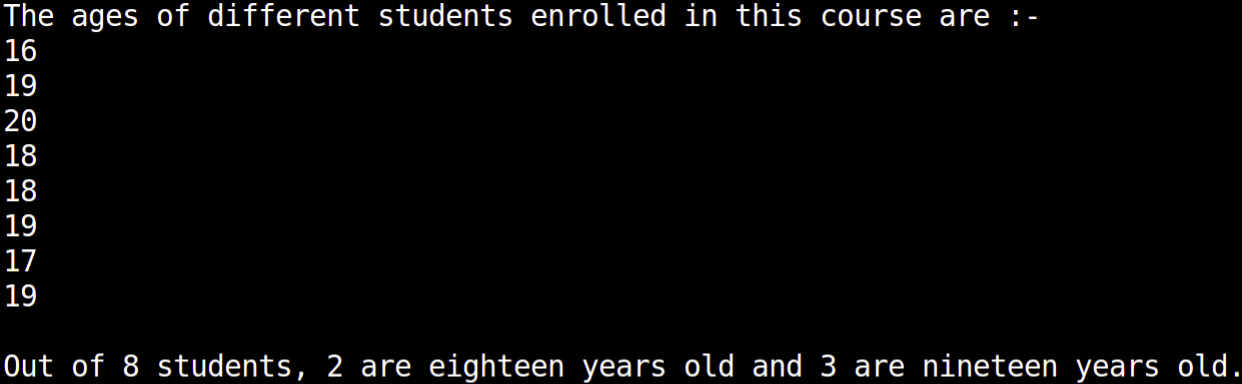
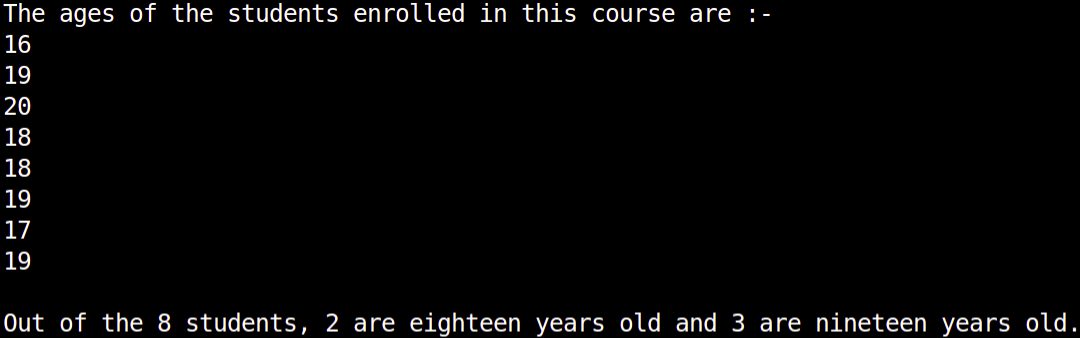
Update PY-00

diff --git a/15/15.py b/15/15.py
@@ -1,0 +1,106 @@
+# -*- coding: utf-8 -*-
+# Python 3.8.6
+
+numberOfStudents = int(input("Enter the number of students enrolled in "
+                                  "this course: "))
+print("\n", sep = "", end = "")
+
+
+
+if (numberOfStudents > 0):
+
+
+
+    listOfNames = []
+    marksObtained = []
+
+    for x in range(1, numberOfStudents+1):
+        print("Enter the name of student no. ", x, ": ", sep = "", end = "")
+        dummyVariable1 = input()
+        listOfNames.append(dummyVariable1)
+
+    print("\n", sep = "", end = "")
+
+    for y in range(numberOfStudents):
+        print("Enter the marks of ", listOfNames[y], ": ", sep = "", end = "")
+        dummyVariable2 = int(input())
+        marksObtained.append(dummyVariable2)
+
+    print("\n", sep = "", end = "")
+
+
+
+    print("The name(s) of the student(s) enrolled in this course is(are) :-\n",
+          sep = "", end = "")
+
+
+    listOfNames.sort()
+
+    for z in range(numberOfStudents):
+        if (z+2 != numberOfStudents and z+1 != numberOfStudents):
+            print(listOfNames[z], sep = "", end = ", ")
+        elif (z+2 == numberOfStudents):
+            print(listOfNames[z], sep = "", end = " & ")
+        else:
+            print(listOfNames[z], sep = "", end = " ")
+
+    print("(in ascending alphabetical order).\n", sep = "", end = "")
+
+
+    listOfNames.reverse()
+
+    for w in range(numberOfStudents):
+        if (w+2 != numberOfStudents and w+1 != numberOfStudents):
+            print(listOfNames[w], sep = "", end = ", ")
+        elif (w+2 == numberOfStudents):
+            print(listOfNames[w], sep = "", end = " & ")
+        else:
+            print(listOfNames[w], sep = "", end = " ")
+
+    print("(in descending alphabetical order).\n\n", sep = "", end = "")
+
+
+
+    print("The marks obtained by the student(s) enrolled in this course ",
+          "is(are) :-\n", sep = "", end = "")
+
+
+    marksObtained.sort()
+
+    for u in range(numberOfStudents):
+        if (u+2 != numberOfStudents and u+1 != numberOfStudents):
+            print(marksObtained[u], sep = "", end = ", ")
+        elif (u+2 == numberOfStudents):
+            print(marksObtained[u], sep = "", end = " & ")
+        else:
+            print(marksObtained[u], sep = "", end = " ")
+
+    print("(in ascending order).\n", sep = "", end = "")
+
+
+    marksObtained.reverse()
+
+    for v in range(numberOfStudents):
+        if (v+2 != numberOfStudents and v+1 != numberOfStudents):
+            print(marksObtained[v], sep = "", end = ", ")
+        elif (v+2 == numberOfStudents):
+            print(marksObtained[v], sep = "", end = " & ")
+        else:
+            print(marksObtained[v], sep = "", end = " ")
+
+    print("(in descending order).\n", sep = "", end = "")
+
+
+
+else:
+    print("The number of students should be greater than 0!\n",
+          sep = "", end = "")
+
+
+
+# /* Trivia
+#
+#  * listName.sort() sorts a list in ascending order.
+#  * listName.reverse() reverses the order of a list.
+#
+#  */

diff --git a/14/14.py b/14/14.py
@@ -3,18 +3,21 @@
 
 agesOfStudents = [16, 19, 20, 18, 18, 19, 17, 19]
 
-print("The ages of different students enrolled in this course are :-\n",
+
+print("The ages of the students enrolled in this course are :-\n",
       sep = "", end = "")
 
 for x in agesOfStudents:
     print(x, "\n", sep = "", end = "")
+
 print("\n", sep = "", end = "")
 
-totalNumberOfStudents = len(agesOfStudents)
+
+numberOfStudents = len(agesOfStudents)
 numberOfEighteenYearOlds = agesOfStudents.count(18)
 numberOfNineteenYearOlds = agesOfStudents.count(19)
 
-print("Out of ", totalNumberOfStudents, " students, ",
+print("Out of the ", numberOfStudents, " students, ",
       numberOfEighteenYearOlds, " are eighteen years old and ",
       numberOfNineteenYearOlds, " are nineteen years old.\n",
       sep = "", end = "")

diff --git a/13/13.py b/13/13.py
@@ -3,15 +3,20 @@
 
 shoppingList = ["1 Packet Bread", "1 Packet Butter", "1 Litre Milk"]
 
+
 print(shoppingList, "\n\n", sep = "", end = "")
+
 
 for x in shoppingList:
     print(x, "\n", sep = "", end = "")
+
 print("\n", sep = "", end = "")
+
 
 shoppingList.append("250 Grams Curd")
 
 print(shoppingList, "\n\n", sep = "", end = "")
+
 
 shoppingList.insert(0, "500 Millilitres Oil")
 shoppingList.insert(3, "12 Eggs")
